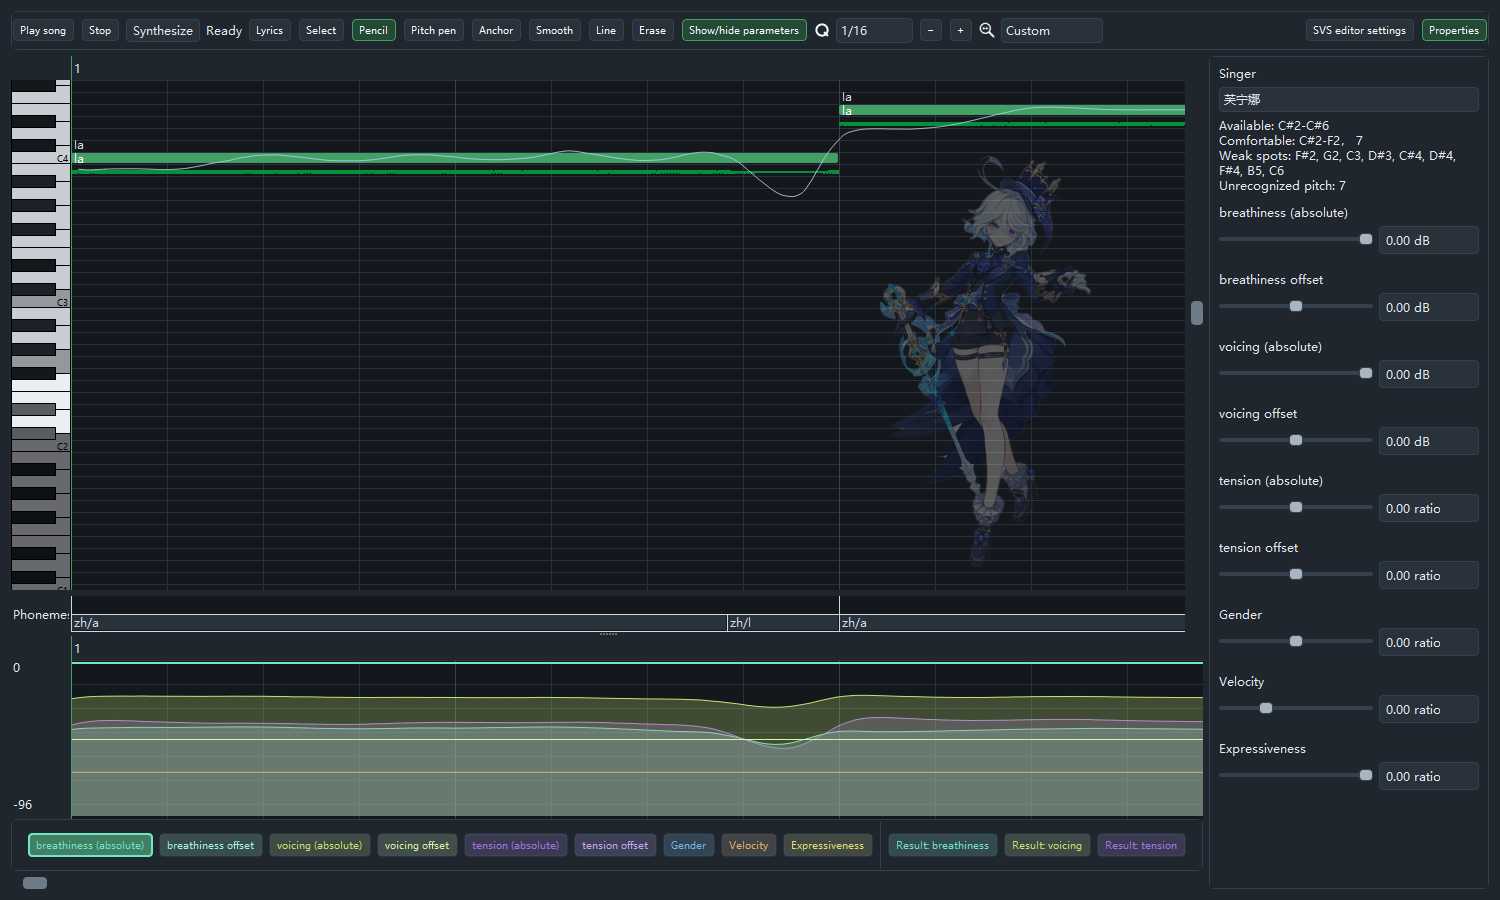
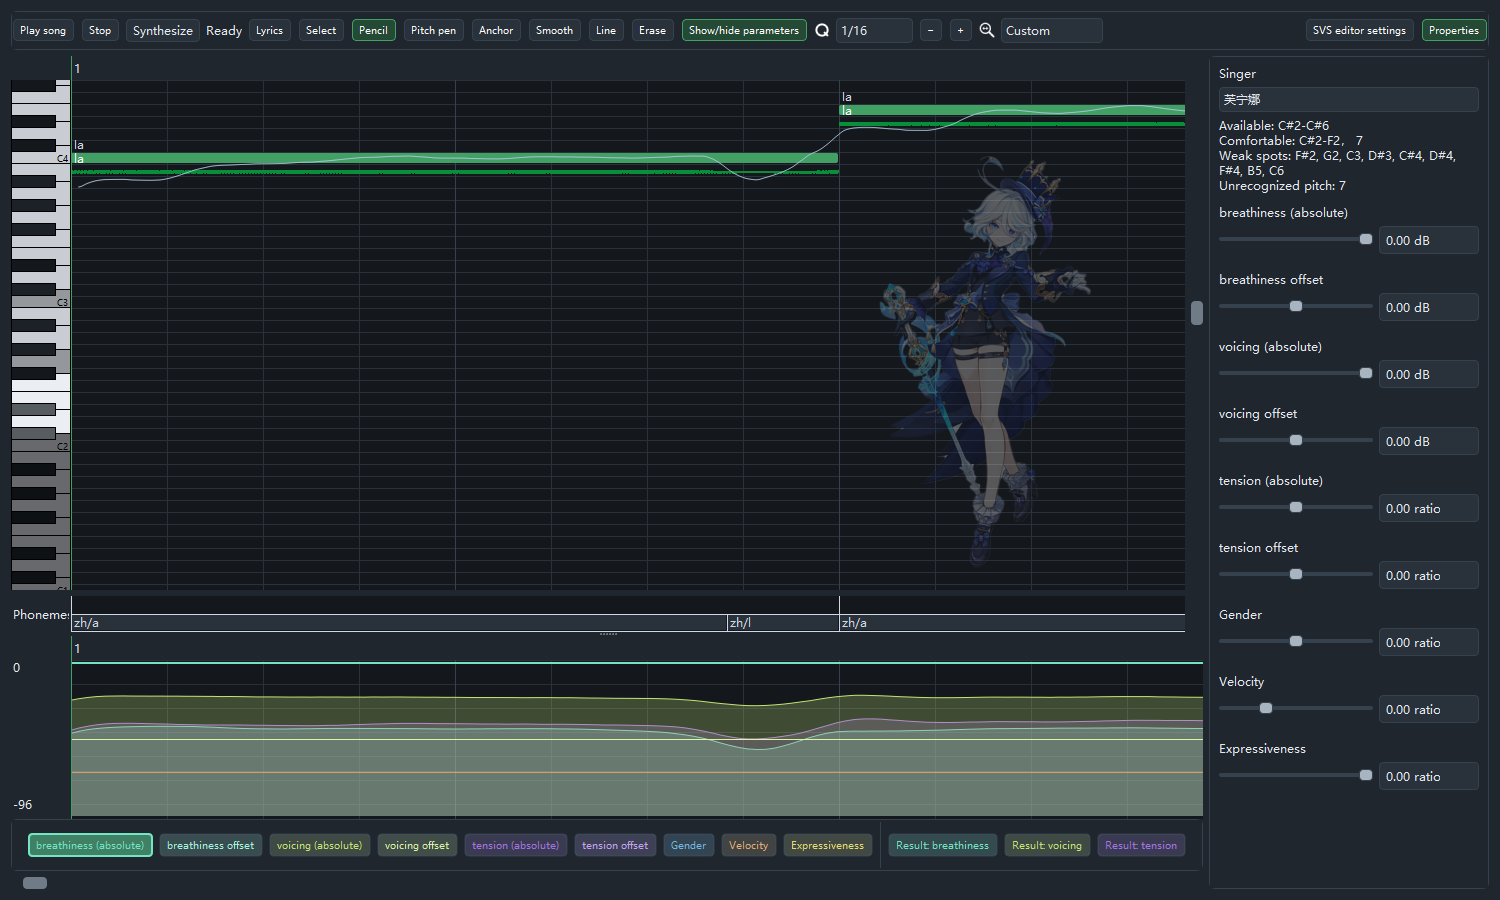
Use random seeds for SVS pitch prediction requests

diff --git a/plugins/SVSDiffSinger/Synthesis.cpp b/plugins/SVSDiffSinger/Synthesis.cpp
@@ -5,6 +5,7 @@
 #include <cmath>
 #include <numeric>
 #include <set>
+#include <random>
 namespace diffsinger {
 namespace {
 Tensor floats(const std::vector<float>& values)
@@ -141,11 +142,12 @@ Json feedbackCurve(
 	return {{"id", id}, {"scope", "clip"}, {"type", "float"}, {"unit", unit}, {"mode", "absolute"},
 		{"interpolation", "linear"}, {"points", points}};
 }
-}
+} // namespace
 Synthesis::Synthesis(Ort::Env& environment, std::shared_ptr<const VoicePackage> voice)
 	: m_environment(environment)
 	, m_voice(std::move(voice))
 	, m_pronunciation(m_voice)
+	, m_defaultSeed(std::random_device{}())
 {
 }
 CpuModel& Synthesis::model(const std::string& stage, const std::string& role)
@@ -154,7 +156,8 @@ CpuModel& Synthesis::model(const std::string& stage, const std::string& role)
 	auto& result = m_models[key];
 	if (!result)
 	{
-		result = std::make_unique<CpuModel>(m_environment, m_voice->stages.at(stage).models.at(role), key, m_seed);
+		result = std::make_unique<CpuModel>(
+			m_environment, m_voice->stages.at(stage).models.at(role), key, stage == "pitch" ? m_pitchSeed : m_seed);
 	}
 	return *result;
 }
@@ -382,24 +385,35 @@ SynthesisResult Synthesis::render(const DurationPlan& plan, const std::vector<No
 	const Curves curves(input);
 	const auto parameters = input.value("trackParameters", Json::object());
 	const int steps = input.value("engineSettings", Json::object()).value("diffsinger.renderSteps", 20);
-	if (steps < 1 || steps > 100)
-	{
-		throw std::runtime_error("Invalid rendering steps");
-	}
-	const auto seedValue = input.value("seed", Json(1));
+	if (steps < 1 || steps > 100) { throw std::runtime_error("Invalid rendering steps"); }
+	const auto seedValue = input.value("seed", Json(m_defaultSeed));
 	if (!seedValue.is_number_unsigned() && !seedValue.is_number_integer())
 	{
 		throw std::runtime_error("Seed must be an integer");
 	}
 	const auto seed = seedValue.get<int64_t>();
-	if (seed < 0 || seed > UINT32_MAX)
-	{
-		throw std::runtime_error("Seed exceeds uint32 range");
-	}
+	if (seed < 0 || seed > UINT32_MAX) { throw std::runtime_error("Seed exceeds uint32 range"); }
 	if (m_seed != uint32_t(seed))
 	{
 		m_models.clear();
 		m_seed = uint32_t(seed);
+	}
+	const auto pitchRequests = input.value("pitchPredictionRequests", Json::object());
+	const auto pitchSeed = pitchRequests.empty() ? m_seed
+		: uint32_t(std::stoul(TensorCache::key("pitch-seed/" + pitchRequests.dump(), {{"seed", longs({m_seed})}})
+								 .substr(0, 8),
+			  nullptr, 16));
+	if (m_pitchSeed != pitchSeed)
+	{
+		for (auto it = m_models.begin(); it != m_models.end();)
+		{
+			if (it->first.rfind("pitch/", 0) == 0) { it = m_models.erase(it); }
+			else
+			{
+				++it;
+			}
+		}
+		m_pitchSeed = pitchSeed;
 	}
 	TensorCache cache(fs::u8path(input.value("cacheDirectory", std::string())));
 	auto run = [&](const std::string& stage, const std::string& role, const Tensors& inputs) {
@@ -407,23 +421,18 @@ SynthesisResult Synthesis::render(const DurationPlan& plan, const std::vector<No
 		const auto pitchRequest = stage == "pitch" && input.contains("pitchPredictionRequests")
 			? "/repredict=" + input.at("pitchPredictionRequests").dump()
 			: std::string{};
-		const auto key = TensorCache::key("CPU/ORT1.23.0/native.v2/seed=" + std::to_string(m_seed) + "/pinyin621f8ca9/"
-				+ m_voice->fingerprint + "/" + stage + "/" + role + pitchRequest,
+		const auto stageSeed = stage == "pitch" ? m_pitchSeed : m_seed;
+		const auto key = TensorCache::key("CPU/ORT1.23.0/native.v2/seed=" + std::to_string(stageSeed)
+				+ "/pinyin621f8ca9/" + m_voice->fingerprint + "/" + stage + "/" + role + pitchRequest,
 			inputs);
 		Tensors out;
-		if (cancelled.load())
-		{
-			throw std::runtime_error("Cancelled");
-		}
+		if (cancelled.load()) { throw std::runtime_error("Cancelled"); }
 		if (!cache.load(key, out))
 		{
 			out = target.run(inputs, cancelled);
 			cache.save(key, out);
 		}
-		if (cancelled.load())
-		{
-			throw std::runtime_error("Cancelled");
-		}
+		if (cancelled.load()) { throw std::runtime_error("Cancelled"); }
 		return out;
 	};
 	auto tokens = [&](const std::string& stage) {

diff --git a/plugins/SVSDiffSinger/DiffSingerSynthesisTest.cpp b/plugins/SVSDiffSinger/DiffSingerSynthesisTest.cpp
@@ -287,7 +287,8 @@ int run(int argc, char** argv)
 				repredict["pitchPredictionRequests"]
 					= {{note.id, std::to_string(std::chrono::steady_clock::now().time_since_epoch().count())}};
 				const auto predicted = synthesis.render(plan, notes, repredict, tempo, 0, 48000, cancel);
-				require(digest(predicted.stereo) == digest(result.stereo), "Re-prediction changed deterministic seed");
+				require(predicted.feedback.at("pitch") != result.feedback.at("pitch"),
+					"New random prediction request did not change the predicted pitch");
 				const auto after = tensorFiles();
 				size_t fresh = 0;
 				for (const auto& path : after)
@@ -295,7 +296,9 @@ int run(int argc, char** argv)
 					if (!before.count(path)) { ++fresh; }
 				}
 				require(fresh > 0, "Re-prediction reused all previous tensors instead of running pitch");
-				synthesis.render(plan, notes, repredict, tempo, 0, 48000, cancel);
+				require(digest(synthesis.render(plan, notes, repredict, tempo, 0, 48000, cancel).stereo)
+						== digest(predicted.stereo),
+					"Repeating one prediction request changed its audio");
 				require(tensorFiles() == after, "Repeating one prediction request did not reuse its tensors");
 				std::cout << "PASS fresh pitch request executed inference and wrote " << fresh
 						  << " new SHA256 tensors; repeated request reused them" << std::endl;

diff --git a/src/core/svs/SVSClip.cpp b/src/core/svs/SVSClip.cpp
@@ -18,6 +18,7 @@
 #include <QUuid>
 #include <QJsonDocument>
 #include <QJsonArray>
+#include <QCryptographicHash>
 namespace lmms {
 bool SVSClip::readOnly() const
 {
@@ -437,8 +438,11 @@ svs::Input SVSClip::captureInput(uint32_t rate) const
 	input.document = {{"clipId", m_id}, {"voiceId", track->voiceId()}, {"pluginId", track->pluginId()},
 		{"position", int(startPosition())}, {"contentOffset", -int(startTimeOffset())}, {"tempo", tempo->baseTempo},
 		{"tempoSource", tempo->toJson()}, {"contentEndTick", contentEnd}};
-	if (!m_globalParameters.isEmpty())
-		input.document["globalParameters"] = m_globalParameters;
+	// Clip IDs are random UUIDs; retain the chosen seed across cache replay and project reload.
+	input.document["seed"] = double(
+		QString::fromLatin1(QCryptographicHash::hash(m_id.toUtf8(), QCryptographicHash::Sha256).toHex().left(8))
+			.toUInt(nullptr, 16));
+	if (!m_globalParameters.isEmpty()) input.document["globalParameters"] = m_globalParameters;
 	input.document["trackParameters"] = track->parameters();
 	input.document["clipParameters"] = m_parameters;
 	input.document["engineSettings"] = QJsonDocument::fromJson(

diff --git a/plugins/SVSDiffSinger/Synthesis.h b/plugins/SVSDiffSinger/Synthesis.h
@@ -22,7 +22,9 @@ private:
 	std::shared_ptr<const VoicePackage> m_voice;
 	Pronunciation m_pronunciation;
 	std::map<std::string, std::unique_ptr<CpuModel>> m_models;
-	uint32_t m_seed = 1;
+	uint32_t m_defaultSeed = 0;
+	uint32_t m_seed = 0;
+	uint32_t m_pitchSeed = 0;
 	CpuModel& model(const std::string& stage, const std::string& role);
 };
 }

diff --git a/doc/svs/SVS-random-pitch-validation.md b/doc/svs/SVS-random-pitch-validation.md
@@ -1,0 +1,9 @@
+# Random pitch prediction seeds
+
+Production input now chooses its initial seed from the clip's random UUID rather than the constant `1`. The seed is included in host and tensor cache identity and remains stable for replay/reload of that result. Independent backend callers without an explicit seed receive a random-device seed per synthesis instance.
+
+A fresh pitch request chooses a new pitch-stage seed from the random request UUID and the initial seed. Only pitch model sessions are reset for that change; unaffected stages retain their seed and cache identity. Changed predicted pitch naturally invalidates downstream models whose inputs change.
+
+Validation on 2026-10-09: native interpolation, actual context-menu actions and real two-note Furina rendering passed (5 passed, no failures). Real backend re-prediction generated different pitch feedback and 5 fresh SHA256 tensor files; repeating the same request reused them and produced identical audio. Cache replay and uncached rendering for the original request matched. An initial seed-key implementation was rejected by the tensor codec for empty inputs; it was corrected to include the seed tensor before the passing backend run.
+
+Audition: `cache/SVS/DiffSinger/6be906c65b8370b500e7588827efd88f5b57caeee06886dc17cfe7a84960bcb6.wav`. This supersedes the fixed-seed behavior described in the earlier continuity validation record.
